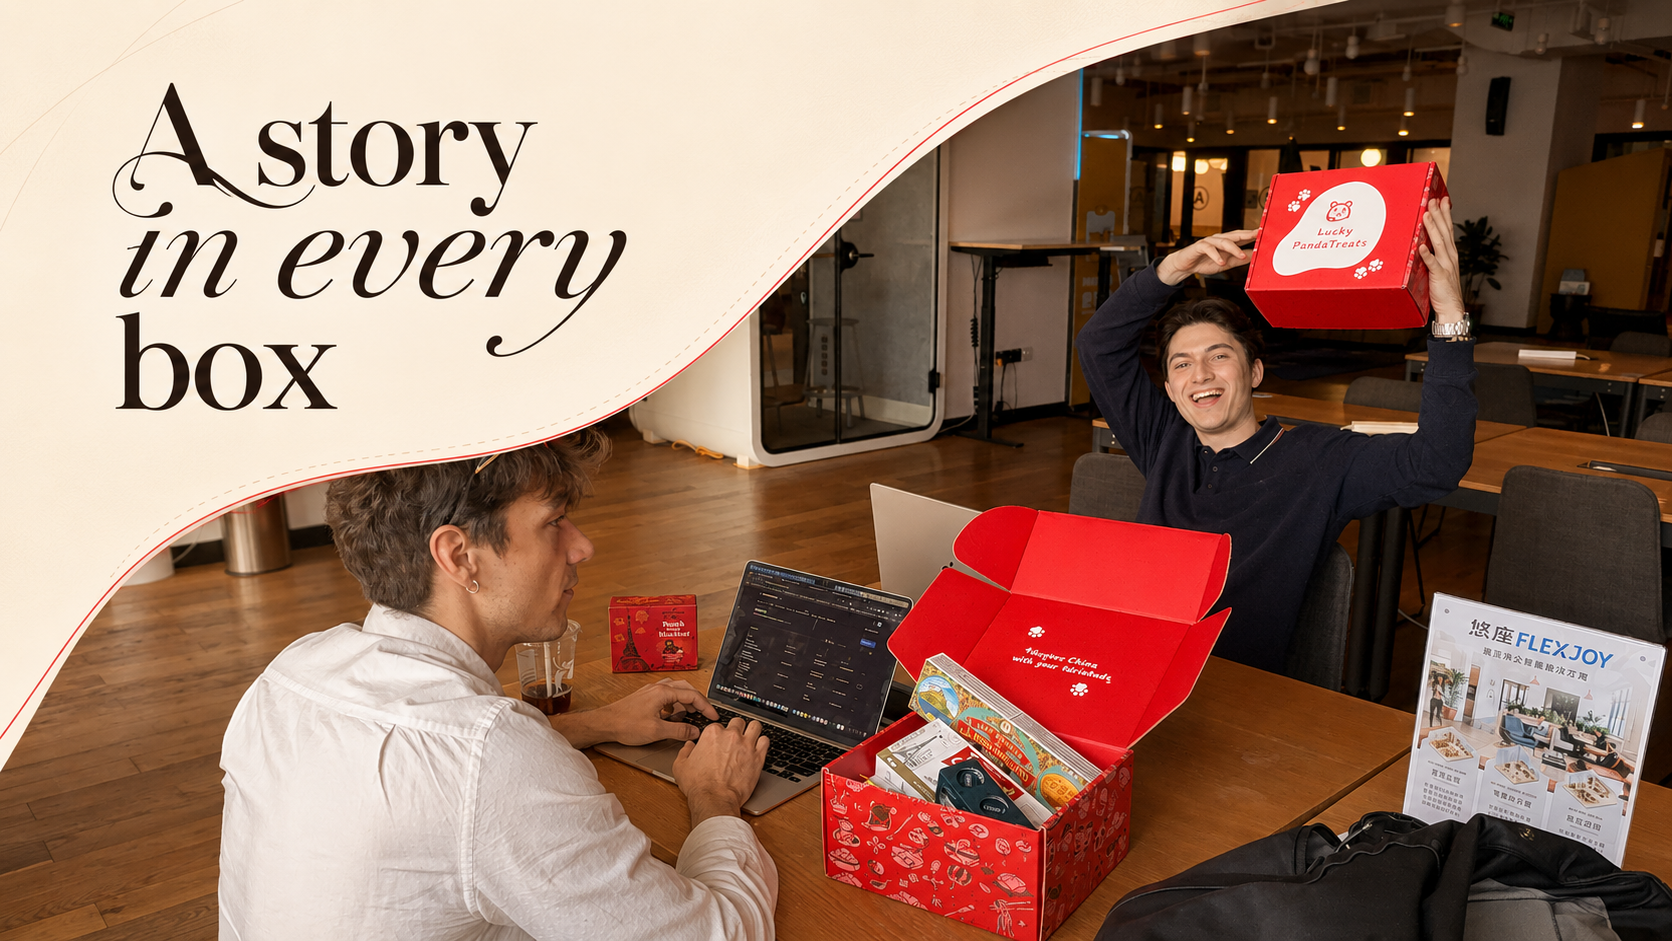
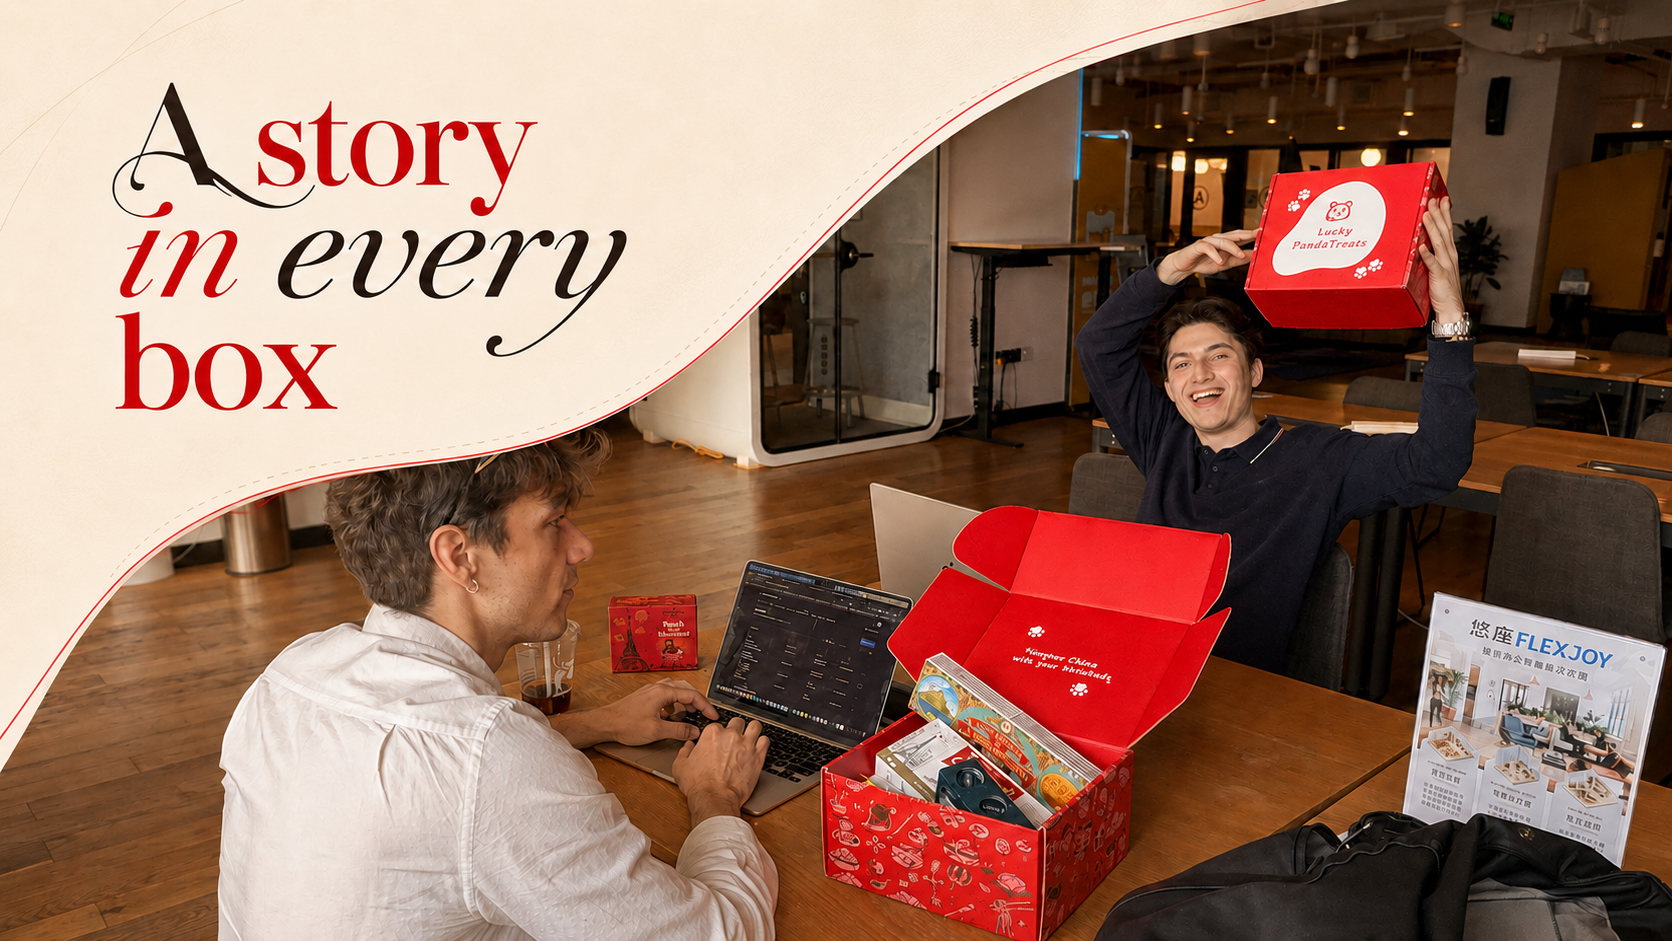
update

diff --git a/app/slides/Slide13AnythingCustom.tsx b/app/slides/Slide13AnythingCustom.tsx
@@ -11,28 +11,10 @@ const slideHtml = `
     </h2>
 
     <p class="body-lg" style="max-width: 900px; margin: 0 0 22px; color: var(--ink-soft);">
-      From the outer box to the products inside, each gift can be tailored to your brand, your occasion, and the people receiving it, with co-design available alongside HR and PR teams.
+      From the box itself to the products inside and supplementary items, each gift can be tailored to your brand, your occasion, and the people receiving it, with co-design available alongside HR and PR teams.
     </p>
 
-    <p class="serif-italic" style="font-size: 36px; line-height: 1.32; max-width: 760px; margin: 0 0 52px; color: var(--ink);">
-      A simple way to make every present feel considered, personal, and distinctly yours.
-    </p>
 
-    <div style="display:grid; grid-template-columns: repeat(2, minmax(0, 1fr)); gap: 44px; max-width: 1040px;">
-      <div style="border-top: 1px solid var(--hairline); padding-top: 18px;">
-        <h3 class="serif-display" style="font-size: 31px; line-height:1.05; margin:0 0 9px; color:var(--ink);">For the box</h3>
-        <p style="font-family:'Source Sans 3'; font-size:19px; line-height:1.38; margin:0; color:var(--ink-soft);">
-          Branded sleeves, ribbons, lid cards, stickers, printed panels, or campaign-specific packaging details.
-        </p>
-      </div>
-
-      <div style="border-top: 1px solid var(--hairline); padding-top: 18px;">
-        <h3 class="serif-display" style="font-size: 31px; line-height:1.05; margin:0 0 9px; color:var(--ink);">For what goes inside</h3>
-        <p style="font-family:'Source Sans 3'; font-size:19px; line-height:1.38; margin:0; color:var(--ink-soft);">
-          Dietary swaps, milestone treats, local favourites, wellness pieces, desk accessories, or a fully new edition.
-        </p>
-      </div>
-    </div>
   </div>
 `;
 

diff --git a/app/slides/Slide08InsideTheBox.tsx b/app/slides/Slide08InsideTheBox.tsx
@@ -1,12 +1,12 @@
 const slideHtml = `
   <!-- left: open-box photo with framing -->
   <div style="display:flex; flex-direction:column; justify-content:center;">
-    <div class="eyebrow" style="margin-bottom: 22px;">Curation</div>
+    <div class="eyebrow" style="margin-bottom: 22px;">What's Inside?</div>
     <h2 class="serif-display" style="font-size: 84px; line-height: 1.0; margin: 0 0 20px; color: var(--ink);">
       Inside <span class="serif-italic">the box</span>
     </h2>
     <p class="body" style="max-width: 540px; margin: 0 0 36px;">
-      A curated selection of authentic French treats — sweet, savory, and quietly indulgent. Wrapped in red, sealed with a paw, and ready to land on a desk.
+      A curated selection of authentic, country specific treats — sweet, savory, and quietly indulgent. Wrapped in red, sealed with a paw, and ready to land on a desk.
     </p>
 
     <div class="photo photo-frame" style="